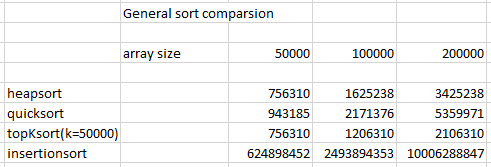
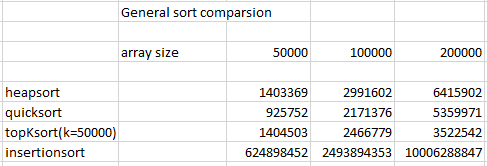
some changes

diff --git a/src/experiment/TopKSort.java b/src/experiment/TopKSort.java
@@ -9,7 +9,6 @@ public class TopKSort {
 
     public static <E> int sort(E[] array, int k, Comparator<E> comparator) {
         MinFourHeap<E> heap = new MinFourHeap<E>(comparator);
-        int steps = 0;
         for(int i = 0; i < array.length; i++) {
             if(heap.size() >= k) {
                 if(comparator.compare(heap.peek(), array[i]) < 0) {
@@ -19,21 +18,17 @@ public class TopKSort {
             } else {
                 heap.add(array[i]);
             }
-            steps += Math.ceil(HeapSort.log4(heap.size()));
         }
         if(k > array.length - 1) {
             for(int i = 0; i < array.length; i++) {
-                steps += Math.ceil(HeapSort.log4(heap.size()));
                 array[i] = heap.next();
             }
         } else {
             for(int i = 0; i < k; i++) {
-                steps += Math.ceil(HeapSort.log4(heap.size()));
                 array[i] = heap.next();
             }
             for(int i = k; i < array.length; i++) {
                 array[i] = null;
-                steps++;
             }
         }   
         return heap.step;

diff --git a/src/experiment/HeapSort.java b/src/experiment/HeapSort.java
@@ -10,19 +10,12 @@ public class HeapSort {
 
     public static <E> int sort(E[] array, Comparator<E> comparator) {
         MinFourHeap<E> heap = new MinFourHeap<E>(comparator);
-        int step = 0;
         for(int i = 0; i < array.length; i++) {
             heap.add(array[i]);
-            //step += Math.ceil(log4(heap.size()));
         }
         for(int i = 0; i < array.length; i++) {
-            //step += Math.ceil(log4(heap.size()));
             array[i] = heap.next();
         }
         return heap.step;
-    }
-    
-    public static double log4(int n) {
-        return Math.log10(n) / Math.log10(4);
     }
 }

diff --git a/src/experiment/sortExperiment.java b/src/experiment/sortExperiment.java
@@ -4,9 +4,9 @@ import java.util.Random;
 
 public class sortExperiment {
 
-    private static final int SIZE = 40000;
+    private static final int SIZE = 200000;
     private static final Random rand = new Random();
-    private static final int K = 1000;
+    private static final int K = 50000;
     
     public static void main(String[] args) {
         

diff --git a/src/p2/writeup/WriteUp.md b/src/p2/writeup/WriteUp.md
@@ -231,17 +231,8 @@ there are many bad ones.  We expect you to justify your choice.
 	&nbsp;
 	we define steps to be the number of comparisons.
 	&nbsp;
-	For heapsort, we have the following code to calculate steps:
-	&nbsp;
-	![alt tag](../../experiment/stepCountInHeapSort.png)
-	&nbsp;
-	in the first for each loop, after adding an element into a heap, the average number of steps should add log4(n) 
-	because it is a minfourheap and has a height of log4(n), for each height we need one comparison to percolate up.
-	&nbsp;
-	In the second for each loop, after removing min from the heap, the average number of steps should also add
-	log4(n) after approximate careful calculation(namely, the ratio of the amount of non leaves and the amount of 
-	leaves is 3:1, and non leaves take four comparison each time, leaves take no comparison each time, so
-	(3 * 0 + 1 * 4) / 4 = 1, so average number of 1 comparison for each level.)
+	For heapSort and topKsort, we modified minFourHeap.java such that it has a public field called step which increment
+	by 1 when there is a comparison.
 	&nbsp;
 	For Quicksort, we have the following code:
 	&nbsp;
@@ -261,10 +252,10 @@ there are many bad ones.  We expect you to justify your choice.
 	![alt tag](../../experiment/generalSort.png)
 	&nbsp;
 	from the data, we reach the several conclusions:
-	1)heapsort is the fastest according our definition of steps.
+	1)quicksort is the fastest general purpose sort according our definition of steps.
 	2)steps of heapsort and quicksort increase within the bound nlogn, which satisfies the theoretical bound O(nlogn),
-	and stesp of insertion sort increase within the bound n^2, which satisfies the theoretical bound O(n^2).
-	3)topKsort is faster than heapsort when k < n ,and equivilant to heapsort when k = n.
+	and steps of insertion sort increase within the bound n^2, which satisfies the theoretical bound O(n^2).
+	3)topKsort is faster than heapsort when k < n ,and approximately equivalent to heapsort when k = n.
 	
 
 </pre>
